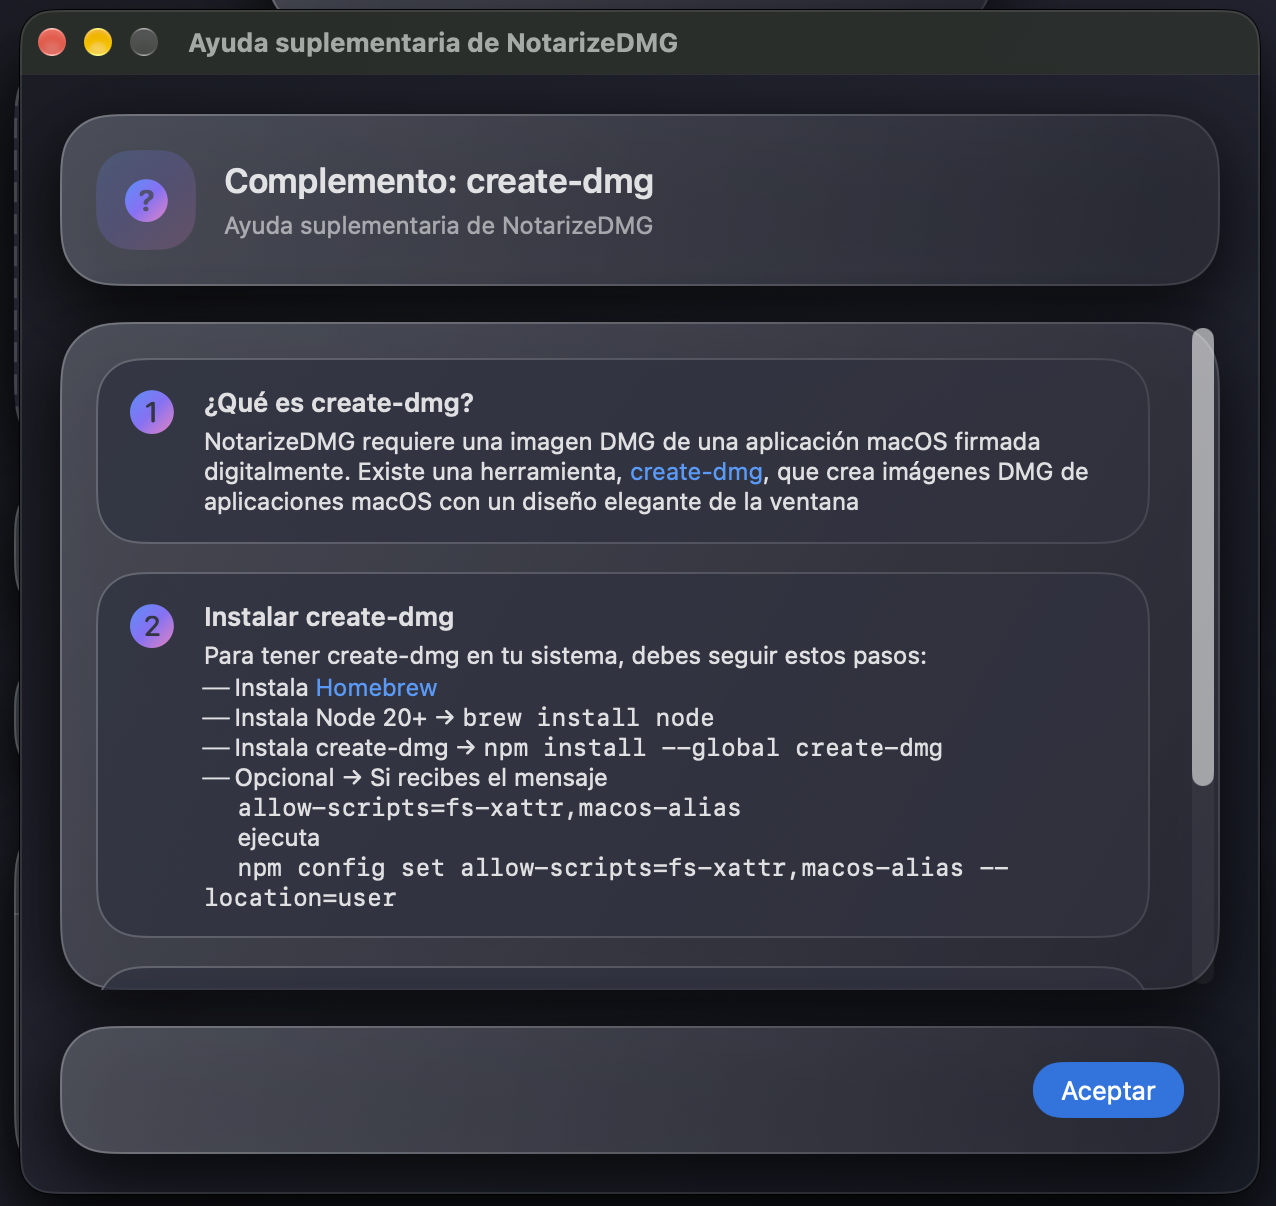
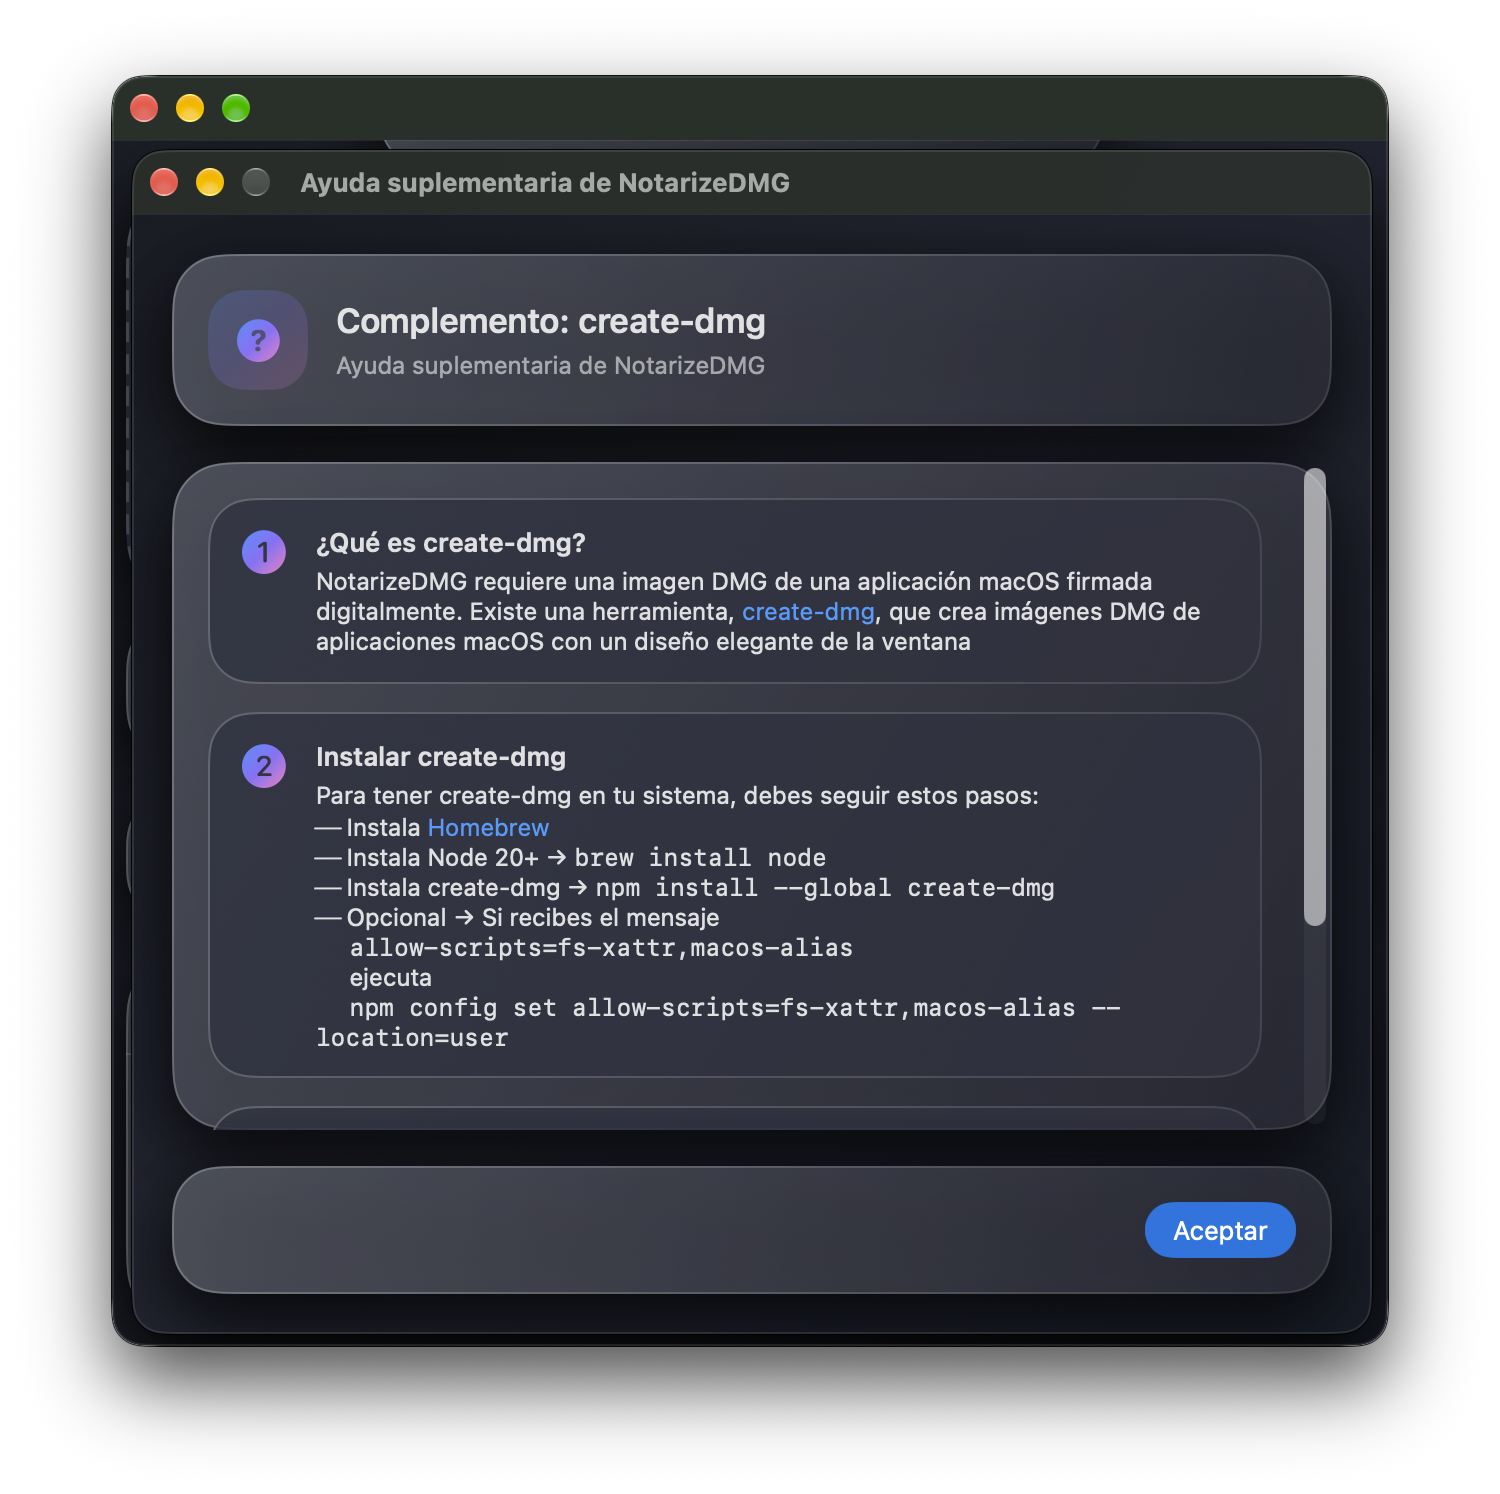
Handle existing DMG overwrite prompts
- Adds a preflight check for existing output DMGs and an in-app conflict alert when create-dmg reports that the target already exists
- Update screenshots
- Bumps the app version to 1.2.3.

diff --git a/NotarizeDMG/Model/NotarizationManager.swift b/NotarizeDMG/Model/NotarizationManager.swift
@@ -7,9 +7,12 @@ final class NotarizationManager: ObservableObject {
     @Published var dmgURL: URL?
     @Published var appURL: URL?
     @Published var outputFolder: URL?
+    @Published var existingDMGConflictURL: URL?
 
     private var currentProcess: Process?
     private var isCancelled = false
+    private var conflictAppURL: URL?
+    private var conflictOutputFolderURL: URL?
 
     // MARK: - Public API
 
@@ -43,6 +46,10 @@ final class NotarizationManager: ObservableObject {
             appendLog("❌ No output folder selected.\n")
             return
         }
+        buildAndNotarize(credentials: credentials, appURL: appURL, outputFolder: outputFolder)
+    }
+
+    private func buildAndNotarize(credentials: CredentialsManager, appURL: URL, outputFolder: URL) {
         guard let createDMGPath = findCreateDMG() else {
             appendLog("❌ create-dmg not found.\n")
             appendLog("   Install it: npm install --global create-dmg\n")
@@ -54,19 +61,40 @@ final class NotarizationManager: ObservableObject {
             return
         }
 
-        isRunning = true
         isCancelled = false
+        existingDMGConflictURL = nil
+        conflictAppURL = nil
+        conflictOutputFolderURL = nil
+
+        if let conflictURL = findExistingExpectedDMG(in: outputFolder, appURL: appURL) {
+            existingDMGConflictURL = conflictURL
+            conflictAppURL = appURL
+            conflictOutputFolderURL = outputFolder
+            log = ""
+            appendLog("⚠ DMG already exists: \(conflictURL.lastPathComponent)\n")
+            return
+        }
+
         log = ""
+        isRunning = true
 
         Task {
             appendLog("🟦 ──── Step 1: Building DMG with create-dmg ────\n\n")
             appendLog("Using: \(createDMGPath)\n\n")
 
             let buildStartDate = Date()
+            let buildLogStartIndex = log.endIndex
             let buildExit = await shell(createDMGPath, args: [appURL.path, outputFolder.path])
+            let buildLogOutput = String(log[buildLogStartIndex...])
 
             guard buildExit == 0, !isCancelled else {
                 if !isCancelled {
+                    if buildLogOutput.localizedCaseInsensitiveContains("target already exists"),
+                       let conflictURL = findExistingExpectedDMG(in: outputFolder, appURL: appURL) {
+                        existingDMGConflictURL = conflictURL
+                        conflictAppURL = appURL
+                        conflictOutputFolderURL = outputFolder
+                    }
                     appendLog("\n❌ create-dmg failed (exit \(buildExit)).\n")
                 }
                 isRunning = false
@@ -95,6 +123,58 @@ final class NotarizationManager: ObservableObject {
         currentProcess = nil
         isRunning = false
         appendLog("\n⚠  Cancelled by user.\n")
+    }
+
+    func dismissExistingDMGConflict() {
+        clearConflictState()
+    }
+
+    func replaceExistingDMGAndRetry(credentials: CredentialsManager) {
+        guard let conflictURL = existingDMGConflictURL,
+              let appURL = conflictAppURL,
+              let outputFolder = conflictOutputFolderURL
+        else { return }
+        guard credentials.isValid else {
+            clearConflictState()
+            appendLog("❌ Missing credentials — open Settings and fill in all fields.\n")
+            return
+        }
+        guard findCreateDMG() != nil else {
+            clearConflictState()
+            appendLog("❌ create-dmg not found.\n")
+            appendLog("   Install it: npm install --global create-dmg\n")
+            appendLog("   Expected at /usr/local/bin/create-dmg (Intel) or /opt/homebrew/bin/create-dmg (Apple Silicon)\n")
+            return
+        }
+        do {
+            let values = try conflictURL.resourceValues(forKeys: [.isRegularFileKey, .isDirectoryKey])
+            guard values.isRegularFile == true else {
+                appendLog("❌ Existing path is not a regular DMG file and cannot be replaced.\n")
+                return
+            }
+        } catch {
+            appendLog("❌ Could not validate existing DMG path: \(error.localizedDescription)\n")
+            return
+        }
+        do {
+            try FileManager.default.removeItem(at: conflictURL)
+            if let remainingConflict = findExistingExpectedDMG(in: outputFolder, appURL: appURL) {
+                existingDMGConflictURL = remainingConflict
+                conflictAppURL = appURL
+                conflictOutputFolderURL = outputFolder
+                appendLog("❌ Existing DMG could not be replaced.\n")
+                return
+            }
+            clearConflictState()
+            appendLog("🗑 Removed existing DMG: \(conflictURL.lastPathComponent)\n")
+        } catch {
+            appendLog("❌ Could not remove existing DMG: \(error.localizedDescription)\n")
+            if !FileManager.default.fileExists(atPath: conflictURL.path) {
+                clearConflictState()
+            }
+            return
+        }
+        buildAndNotarize(credentials: credentials, appURL: appURL, outputFolder: outputFolder)
     }
 
     // MARK: - Private helpers
@@ -250,6 +330,78 @@ final class NotarizationManager: ObservableObject {
                 continuation.resume(returning: process.terminationStatus)
             }
         }
+    }
+
+    private func findExistingExpectedDMG(in outputFolder: URL, appURL: URL) -> URL? {
+        for expectedURL in expectedDMGURLs(in: outputFolder, appURL: appURL) {
+            var isDirectory = ObjCBool(false)
+            if FileManager.default.fileExists(atPath: expectedURL.path, isDirectory: &isDirectory),
+               !isDirectory.boolValue {
+                return expectedURL
+            }
+        }
+        return nil
+    }
+
+    private func expectedDMGURLs(in outputFolder: URL, appURL: URL) -> [URL] {
+        expectedDMGNames(for: appURL).map {
+            URL(fileURLWithPath: (outputFolder.path as NSString).appendingPathComponent($0))
+        }
+    }
+
+    private func expectedDMGNames(for appURL: URL) -> [String] {
+        var baseNames = [appURL.deletingPathExtension().lastPathComponent]
+        var version: String?
+
+        if let bundle = Bundle(url: appURL) {
+            let bundleNames = [
+                bundle.object(forInfoDictionaryKey: "CFBundleDisplayName") as? String,
+                bundle.object(forInfoDictionaryKey: "CFBundleName") as? String,
+            ]
+
+            for bundleName in bundleNames {
+                let trimmedName = bundleName?.trimmingCharacters(in: .whitespacesAndNewlines) ?? ""
+                if !trimmedName.isEmpty {
+                    baseNames.append(trimmedName)
+                }
+            }
+
+            let trimmedVersion = (bundle.object(forInfoDictionaryKey: "CFBundleShortVersionString") as? String)?
+                .trimmingCharacters(in: .whitespacesAndNewlines)
+            if let trimmedVersion, !trimmedVersion.isEmpty {
+                version = trimmedVersion
+            }
+        }
+
+        var seenBaseNames = Set<String>()
+        let expectedBaseNames = baseNames
+            .map { $0.trimmingCharacters(in: .whitespacesAndNewlines) }
+            .filter { !$0.isEmpty }
+            .filter { seenBaseNames.insert($0).inserted }
+
+        var seenFilenames = Set<String>()
+        var filenames = [String]()
+        for baseName in expectedBaseNames {
+            if let version, !version.isEmpty {
+                let versionedName = "\(baseName) \(version).dmg"
+                if seenFilenames.insert(versionedName).inserted {
+                    filenames.append(versionedName)
+                }
+            }
+
+            let unversionedName = "\(baseName).dmg"
+            if seenFilenames.insert(unversionedName).inserted {
+                filenames.append(unversionedName)
+            }
+        }
+
+        return filenames
+    }
+
+    private func clearConflictState() {
+        existingDMGConflictURL = nil
+        conflictAppURL = nil
+        conflictOutputFolderURL = nil
     }
 
     private func appendLog(_ text: String) {

diff --git a/NotarizeDMG/Views/ContentView.swift b/NotarizeDMG/Views/ContentView.swift
@@ -7,6 +7,11 @@ enum AppMode: Int {
 }
 
 struct ContentView: View {
+    private enum OverlayFocus: Hashable {
+        case createDMGOK
+        case existingConflictCancel
+    }
+
     @EnvironmentObject private var credentials: CredentialsManager
     @Environment(\.colorScheme) private var colorScheme
     @Environment(\.openWindow) private var openWindow
@@ -20,6 +25,7 @@ struct ContentView: View {
     @State private var showFolderPicker = false
     @State private var showSettings = false
     @State private var isDropTargeted = false
+    @FocusState private var focusedOverlayButton: OverlayFocus?
 
     var body: some View {
         ZStack {
@@ -53,8 +59,13 @@ struct ContentView: View {
             .padding(.horizontal, 22)
             .padding(.top, 22)
             .padding(.bottom, 30)
+            .accessibilityHidden(manager.existingDMGConflictURL != nil || showCreateDMGAlert)
 
-            if showCreateDMGAlert {
+            if let conflictURL = manager.existingDMGConflictURL {
+                existingDMGAlertOverlay(conflictURL: conflictURL)
+                    .transition(.opacity.combined(with: .scale(scale: 0.96)))
+                    .zIndex(2)
+            } else if showCreateDMGAlert {
                 createDMGAlertOverlay
                     .transition(.opacity.combined(with: .scale(scale: 0.96)))
                     .zIndex(1)
@@ -279,11 +290,73 @@ struct ContentView: View {
                 .buttonStyle(.borderedProminent)
                 .controlSize(.large)
                 .keyboardShortcut(.defaultAction)
+                .focused($focusedOverlayButton, equals: .createDMGOK)
             }
             .padding(24)
             .frame(width: 290)
             .glassCard(colorScheme: colorScheme, cornerRadius: 30, accentOpacity: 0.24)
             .shadow(color: AppTheme.shadowColor(for: colorScheme), radius: 26, x: 0, y: 18)
+            .onAppear { focusedOverlayButton = .createDMGOK }
+        }
+    }
+
+    private func existingDMGAlertOverlay(conflictURL: URL) -> some View {
+        ZStack {
+            Rectangle()
+                .fill(AppTheme.scrim(for: colorScheme))
+                .ignoresSafeArea()
+
+            VStack(spacing: 16) {
+                ZStack {
+                    RoundedRectangle(cornerRadius: 18, style: .continuous)
+                        .fill(AppTheme.accentGradient)
+                        .opacity(0.22)
+                        .frame(width: 52, height: 52)
+
+                    Image(systemName: "externaldrive.badge.exclamationmark")
+                        .font(.system(size: 24, weight: .semibold))
+                        .foregroundStyle(AppTheme.accentGradient)
+                }
+
+                Text(NSLocalizedString("dmg_exists_alert_title", comment: "existing DMG alert title"))
+                    .font(.title3.weight(.semibold))
+                    .multilineTextAlignment(.center)
+
+                Text(
+                    String(
+                        format: NSLocalizedString("dmg_exists_alert_message_format", comment: "existing DMG alert message"),
+                        conflictURL.lastPathComponent
+                    )
+                )
+                .font(.callout)
+                .foregroundStyle(.primary)
+                .multilineTextAlignment(.center)
+                .fixedSize(horizontal: false, vertical: true)
+
+                HStack(spacing: 10) {
+                    Button(NSLocalizedString("dmg_exists_alert_cancel", comment: "existing DMG alert cancel button")) {
+                        manager.dismissExistingDMGConflict()
+                    }
+                    .buttonStyle(.bordered)
+                    .controlSize(.large)
+                    .keyboardShortcut(.cancelAction)
+                    .focused($focusedOverlayButton, equals: .existingConflictCancel)
+
+                    Button(NSLocalizedString("dmg_exists_alert_replace", comment: "existing DMG alert replace button")) {
+                        manager.replaceExistingDMGAndRetry(credentials: credentials)
+                    }
+                    .buttonStyle(.borderedProminent)
+                    .controlSize(.large)
+                    .keyboardShortcut(.defaultAction)
+                }
+            }
+            .padding(24)
+            .frame(width: 330)
+            .glassCard(colorScheme: colorScheme, cornerRadius: 30, accentOpacity: 0.24)
+            .shadow(color: AppTheme.shadowColor(for: colorScheme), radius: 26, x: 0, y: 18)
+            .accessibilityElement(children: .contain)
+            .accessibilityAddTraits(.isModal)
+            .onAppear { focusedOverlayButton = .existingConflictCancel }
         }
     }
 
